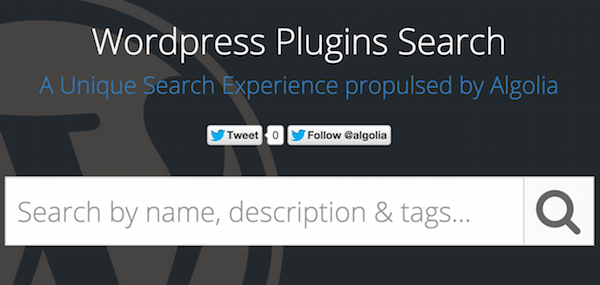
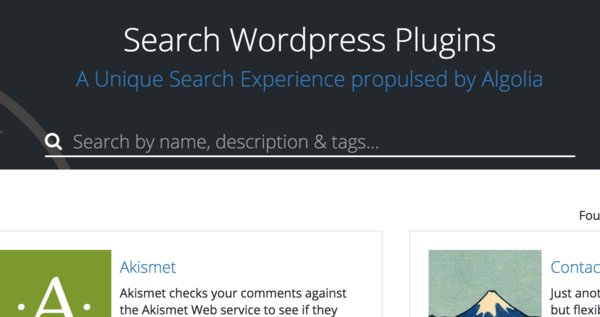
Update 2015-09-02T19:56:39.404Z

diff --git a/index.html b/index.html
@@ -1,4 +1,4 @@
-<html lang="en" ng-app="myApp"><head><meta content="text/html; charset=UTF-8" http-equiv="Content-Type"/><meta content="All 38,000+ Wordpress Plugins a few keystrokes away. Try our unique search experience!" name="description"/><title>Search Wordpress Plugins| by Algolia</title><link href="css/main.css" rel="stylesheet"/><link href="images/favicon.ico" rel="icon"/><meta name="twitter:card" content="summary"/><meta name="twitter:site" content="@algolia"/><meta name="twitter:title" content="Search Wordpress Plugins"/><meta name="twitter:description" content="All 38,000+ Wordpress Plugins a few keystrokes away. Try our unique search experience!"/><meta name="twitter:image:src" content="images/share-twitter.png"/><meta property="st:title" content="Search Wordpress Plugins"/><meta property="og:site_name" content="Search Wordpress Plugins"/><meta property="og:title" content="Search Wordpress Plugins"/><meta property="og:description" content="All 38,000+ Wordpress Plugins a few keystrokes away. Try our unique search experience!"/><meta property="og:image" content="images/share-facebook.png"/><meta property="og:image:width" content="600"/><meta property="og:image:height" content="285"/></head><body ng-controller="SearchCtrl" scrolled="loadMore()"><header><a href="https://www.algolia.com" taget="_blank" class="logo hidden-xs"><img src="images/logo-algolia.png"/></a><h1>Search Wordpress Plugins</h1><h3>A Unique Search Experience propulsed by Algolia</h3><div class="input-group"><span class="input-group-addon"><i class="fa fa-search"></i></span><input type="search" ng-model="q" placeholder="Search by name, description &amp; tags..." ng-model-options="{ updateOn: 'default blur', debounce: { 'default': 50, 'blur': 0 } }" ng-keyup="$event.keyCode == 13 &amp;&amp; submit()" autofocus="autofocus" class="form-control"/></div><div class="github-badges hidden-xs hidden-sm"><span class="share-twitter"><a href="https://twitter.com/share" class="twitter-share-button" data-via="aloglia">Tweet</a>
+<html lang="en" ng-app="myApp"><head><meta content="text/html; charset=UTF-8" http-equiv="Content-Type"/><meta content="All 38,000+ Wordpress Plugins a few keystrokes away. Try our unique search experience!" name="description"/><title>Search Wordpress Plugins | by Algolia</title><link href="css/main.css" rel="stylesheet"/><link href="images/favicon.ico" rel="icon"/><meta name="twitter:card" content="summary"/><meta name="twitter:site" content="@algolia"/><meta name="twitter:title" content="Search Wordpress Plugins"/><meta name="twitter:description" content="All 38,000+ Wordpress Plugins a few keystrokes away. Try our unique search experience!"/><meta name="twitter:image:src" content="images/share-twitter.png"/><meta property="st:title" content="Search Wordpress Plugins"/><meta property="og:site_name" content="Search Wordpress Plugins"/><meta property="og:title" content="Search Wordpress Plugins"/><meta property="og:description" content="All 38,000+ Wordpress Plugins a few keystrokes away. Try our unique search experience!"/><meta property="og:image" content="images/share-facebook.png"/><meta property="og:image:width" content="600"/><meta property="og:image:height" content="317"/></head><body ng-controller="SearchCtrl" scrolled="loadMore()"><header><a href="https://www.algolia.com" taget="_blank" class="logo hidden-xs"><img src="images/logo-algolia.png"/></a><h1>Search Wordpress Plugins</h1><h3>A Unique Search Experience propulsed by Algolia</h3><div class="input-group"><span class="input-group-addon"><i class="fa fa-search"></i></span><input type="search" ng-model="q" placeholder="Search by name, description &amp; tags..." ng-model-options="{ updateOn: 'default blur', debounce: { 'default': 50, 'blur': 0 } }" ng-keyup="$event.keyCode == 13 &amp;&amp; submit()" autofocus="autofocus" class="form-control"/></div><div class="github-badges hidden-xs hidden-sm"><span class="share-twitter"><a href="https://twitter.com/share" class="twitter-share-button" data-via="aloglia">Tweet</a>
 <script>!function(d,s,id){var js,fjs=d.getElementsByTagName(s)[0],p=/^http:/.test(d.location)?'http':'https';if(!d.getElementById(id)){js=d.createElement(s);js.id=id;js.src=p+'://platform.twitter.com/widgets.js';fjs.parentNode.insertBefore(js,fjs);}}(document, 'script', 'twitter-wjs');</script></span><span class="follow-twitter"><a href="https://twitter.com/algolia" class="twitter-follow-button" data-show-count="false">Follow @algolia</a>
 <script>!function(d,s,id){var js,fjs=d.getElementsByTagName(s)[0],p=/^http:/.test(d.location)?'http':'https';if(!d.getElementById(id)){js=d.createElement(s);js.id=id;js.src=p+'://platform.twitter.com/widgets.js';fjs.parentNode.insertBefore(js,fjs);}}(document, 'script', 'twitter-wjs');</script></span></div></header><div ng-cloak="ng-cloak" ng-if="content" class="container search-results"><div ng-class="{ blur: blurred }" class="row plugins"><div ng-if="content.nbHits !== 0" class="col-md-10 col-md-offset-2 col-sm-8 col-sm-offset-4"><div class="stats">Found <strong>{{ content.nbHits | number }}</strong> plugin<span ng-if="content.nbHits !== 1">s</span> in <strong>{{ content.processingTimeMS }}</strong>ms,
  by<a href="http://www.algolia.com/?utm_source=wordpress_plugin_search&amp;utm_medium=link&amp;utm_campaign=search_input" target="_blank"><img src="images/logo-algolia.png"/></a></div></div><div ng-if="content.nbHits === 0" class="col-lg-12 no-results">No results are matching "<strong>{{ q }}</strong>".</div><div class="col-md-2 col-sm-4 facets hidden-xs"><div ng-repeat="facet in content.facets" class="facet"><h3>{{ facet.name | facetTitle }}</h3><ul ng-if="facet.name !== 'rating'" class="list-unstyled"><li ng-repeat="(value, count) in ::facet.data" ng-class="{ refined: (helper.isRefined(facet.name, value)) }"><span class="facet-count">{{ count | number }}</span><a href="#" ng-click="toggleRefine($event, facet.name, value)" class="facet-value">{{ value | facetValue : facet.name }}</a></li></ul><table ng-if="facet.name === 'rating'" class="table facet-rating"><tr ng-repeat="i in range(5) track by $index" ng-class="{ refined: (helper.isRefined(facet.name, value)) }" ng-init="value = 5 - $index; count = content.ratingFacet[value]"><td><a href="#" ng-click="count ? toggleRefine($event, facet.name, value) : 0" ng-disabled="!count"><i ng-repeat="i in range(+value) track by $index" ng-class="{ star: count, 'text-muted': !count }" class="fa fa-star"></i><i ng-repeat="i in range(5 - value) track by $index" ng-class="{ star: count, 'text-muted': !count }" class="fa fa-star-o"></i>&nbsp;</a></td><td class="facet-count">{{ count | number }}</td></tr></table></div></div><div ng-repeat="odd in ::[true, false]" ng-class="{ 'hidden-xs hidden-sm' : !odd }" class="col-md-5 col-sm-8"><div ng-repeat="hit in content.hits track by hit.objectID" ng-class="{ 'hidden-md hidden-lg' : ($odd == odd), 'highlighted' : hit.concatenated }" class="plugin-card"><div class="media plugin-card-top"><div class="media-left plugin-icon"><a href="https://wordpress.org/plugins/{{ hit.slug }}/"><div style="background: url(//ps.w.org/{{ hit.slug }}/assets/icon-256x256.png) top left no-repeat, url(//ps.w.org/{{ hit.slug }}/assets/icon-128x128.png) top left no-repeat, url(//ps.w.org/{{ hit.slug }}/assets/icon-256x256.jpg) top left no-repeat, url(//ps.w.org/{{ hit.slug }}/assets/icon-128x128.jpg) top left no-repeat, #efefef; background-size: 100% auto" class="plugin-logo media-object"></div></a><div class="plugin-ratings"><i ng-repeat="star in ::hit.stars track by $index" ng-class="{ 'fa-star': star, 'fa-star-o': !star }" class="star fa"></i><small class="text-muted"> ({{ hit.num_ratings | number }})</small></div></div><div class="media-body"><h4 class="plugin-name"><a href="https://wordpress.org/plugins/{{ hit.slug }}/"><span ng-bind-html="hit._highlightResult.name.value"></span></a></h4><p ng-bind-html="hit._highlightResult.short_description.value" class="plugin-desccription"></p><div class="plugin-tags"><span ng-repeat="tag in ::hit._highlightResult.tags" ng-bind-html="tag.value" ng-if="tag.matchLevel !== 'none'" class="plugin-tag"></span></div></div><div class="plugin-author">by <a href="https:{{ hit.author_profile }}"><strong ng-bind-html="hit._highlightResult.author.value"></strong></a></div></div><div class="plugin-card-bottom"><div class="plugin-updated"><i title="Updated at" class="fa fa-clock-o"></i> {{  hit.last_updated | fromNow }}</div><div class="plugin-downloaded"><i title="Downloaded" class="fa fa-download"></i> {{ hit.downloaded | number }}</div></div></div></div></div></div><script type="text/javascript" src="js/app.js"></script><script type="text/javascript">(function(i,s,o,g,r,a,m){i['GoogleAnalyticsObject']=r;i[r]=i[r]||function(){

diff --git a/js/app.js b/js/app.js
@@ -170,7 +170,7 @@ app.filter('fromNow', ['moment', moment.fromNow]);
 
 app.directive('scrolled', ['$window', '$document', scrolled]);
 
-}).call(this,require("oMfpAn"),typeof self !== "undefined" ? self : typeof window !== "undefined" ? window : {},require("buffer").Buffer,arguments[3],arguments[4],arguments[5],arguments[6],"/fake_375e936e.js","/")
+}).call(this,require("oMfpAn"),typeof self !== "undefined" ? self : typeof window !== "undefined" ? window : {},require("buffer").Buffer,arguments[3],arguments[4],arguments[5],arguments[6],"/fake_1b91e06a.js","/")
 },{"./controllers/SearchCtrl":1,"./directives/scrolled":2,"./filters/facet":4,"./filters/moment":5,"algoliasearch/src/browser/builds/algoliasearch.angular":191,"angular":202,"angular-moment":197,"angular-sanitize":200,"buffer":203,"oMfpAn":208}],4:[function(require,module,exports){
 (function (process,global,Buffer,__argument0,__argument1,__argument2,__argument3,__filename,__dirname){
 "use strict";
